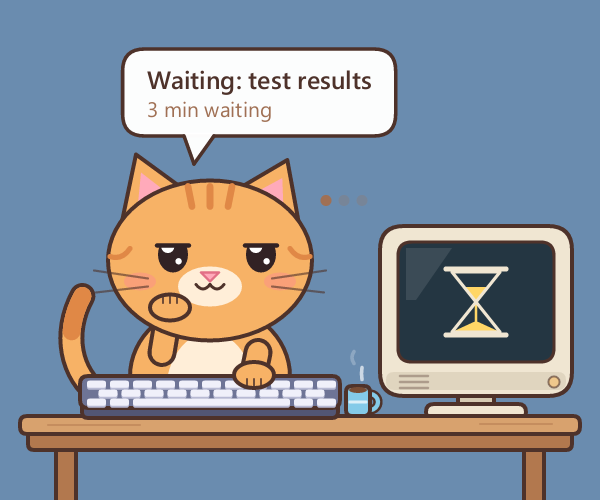
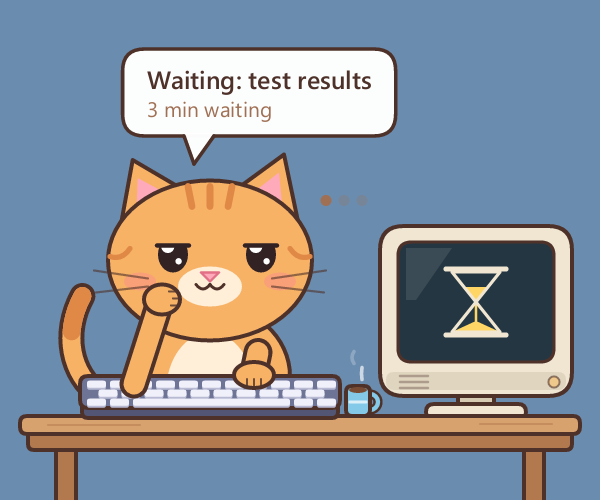
Random typing screens, a proper chin prop while waiting
- Each new busy line picks a typing screen at random (never the same twice in a row):
  scrolling code, progress bars, an equalizer, a spinning gear or a line graph.
- Waiting: the chin rests on an upright forearm (elbow on the keyboard, paw cupping the jaw)
  drawn in front of the head, instead of a paw hidden under the chin.
- snapshot --screen N picks the typing screen (default 0, code, so existing pictures stay).
- README and guide describe the screens and the option; new waiting picture.

Changed region(s): [[0.18, 0.57, 0.33, 0.81], [0.21, 0.3, 0.3, 0.42], [0.42, 0.3, 0.51, 0.42]]

diff --git a/src/scene.rs b/src/scene.rs
@@ -92,6 +92,9 @@ impl Mood {
     }
 }
 
+/// Typing screens: scrolling code, progress bars, equalizer, gear, line graph.
+const SCREENS: usize = 5;
+
 /// Seconds the "all done!" moment lasts after busy turns idle.
 const CHEER_SECS: f64 = 2.5;
 
@@ -125,6 +128,8 @@ pub struct Scene {
     pub busy: bool,
     pub task: String,
     pub mood: Mood,
+    /// which typing screen shows (0..SCREENS), picked at random per status line
+    pub screen: usize,
     /// time (seconds) the current task started
     pub since: f64,
     /// time the last job finished (busy -> idle), for the "all done!" moment
@@ -155,6 +160,7 @@ impl Scene {
             busy: false,
             task: String::new(),
             mood: Mood::Busy,
+            screen: 0,
             since: 0.0,
             done_at: -100.0,
             rng: 0x2545_F491_4F6C_DD1D,
@@ -182,6 +188,9 @@ impl Scene {
         let busy = !s.is_empty() && !s.eq_ignore_ascii_case("idle");
         if busy && (!self.busy || s != self.task) {
             self.since = t - age.max(0.0);
+            // a new screen for the new line, never the same one twice in a row
+            let pick = (self.rand() * (SCREENS - 1) as f64) as usize;
+            self.screen = (self.screen + 1 + pick) % SCREENS;
         }
         // a job that ends without a problem gets a little celebration
         if self.busy && !busy && self.mood != Mood::Problem {
@@ -331,11 +340,16 @@ impl Scene {
         self.arms(&mut c, p);
         self.head(&mut c, p);
         if self.busy && self.mood == Mood::Waiting {
-            // the chin rests on this paw, so it sits in front of the head
-            let py = 181.0 - p.l.lift;
-            c.blob(&oval(p.l.x, py, PAW_W, 13.0), FUR);
-            for tx in [6.5, 10.0, 13.5] {
-                c.stroke(&line(p.l.x + tx, py + 0.8, p.l.x + tx, py + 4.2), INK.fade(0.8), 1.1);
+            // chin propped on an upright forearm: elbow on the keyboard, paw cupping the jaw,
+            // drawn in front of the head
+            let (px, py) = (CX - 33.0, p.hy + 12.0);
+            let arm = line(CX - 38.0, KY + 4.0, px + 8.0, py + 9.0);
+            c.stroke(&arm, INK, 14.5);
+            c.stroke(&arm, FUR, 10.5);
+            c.blob(&oval(px, py, 18.0, 15.0), FUR);
+            // toes curl in towards the face
+            for (dx, dy) in [(12.5, 3.5), (14.5, 7.0), (13.5, 10.5)] {
+                c.stroke(&line(px + dx, py + dy, px + dx + 3.5, py + dy), INK.fade(0.8), 1.1);
             }
         }
         self.sparkles(&mut c, p);
@@ -352,6 +366,60 @@ impl Scene {
             self.zzz(&mut c, tf, p);
         }
         self.bubble(&mut c, t, p);
+    }
+
+    /// The typing screens other than scrolling code (screen 0), picked at random per status line.
+    fn busy_screen(&self, c: &mut Canvas, t: f32) {
+        match self.screen {
+            1 => {
+                // three progress bars filling at their own pace
+                for i in 0..3 {
+                    let y = 133.0 + i as f32 * 15.0;
+                    let k = (t * (0.11 + 0.07 * i as f32) + i as f32 * 0.37).fract();
+                    c.fill(&rrect(207.0, y, 62.0, 7.0, 3.5), WHITE.fade(0.12));
+                    c.fill(&rrect(207.0, y, 6.0 + 56.0 * k, 7.0, 3.5), CODE[i]);
+                }
+            }
+            2 => {
+                // an equalizer
+                for i in 0..8 {
+                    let f = i as f32;
+                    let h = 5.0 + 32.0 * (t * (2.1 + 0.37 * f) + f * 1.7).sin().abs();
+                    c.fill(&rrect(206.0 + f * 8.4, 172.0 - h, 6.0, h, 2.0), CODE[i % 4]);
+                }
+            }
+            3 => {
+                // a spinning gear and loading dots
+                let (x, y, rot) = (238.0, 146.0, t * 1.6);
+                for k in 0..8 {
+                    let a = rot + k as f32 / 8.0 * 2.0 * PI;
+                    c.stroke(&line(x + a.cos() * 9.0, y + a.sin() * 9.0, x + a.cos() * 16.0, y + a.sin() * 16.0), CODE[1], 5.0);
+                }
+                c.fill(&circle(x, y, 11.5), CODE[1]);
+                c.fill(&circle(x, y, 4.5), SCREEN_ON);
+                let step = (t * 3.0) as i64 % 4;
+                for i in 0..3 {
+                    let a = if (i as i64) < step { 1.0 } else { 0.25 };
+                    c.fill(&circle(229.0 + i as f32 * 9.0, 172.0, 2.4), CODE[0].fade(a));
+                }
+            }
+            _ => {
+                // a line graph scrolling past
+                for gy in [136.0, 151.0, 166.0] {
+                    c.stroke(&line(203.0, gy, 273.0, gy), WHITE.fade(0.08), 1.0);
+                }
+                let pts: Vec<(f32, f32)> = (0..=20)
+                    .map(|i| {
+                        let x = 203.0 + i as f32 * 3.5;
+                        let u = i as f32 * 0.45 + t * 1.8;
+                        (x, 152.0 - 9.0 * u.sin() - 5.0 * (u * 2.3 + 1.0).sin())
+                    })
+                    .collect();
+                c.stroke(&polyline(&pts), CODE[2], 2.2);
+                let (lx, ly) = pts[pts.len() - 1];
+                c.fill(&circle(lx, ly, 2.6), CODE[0]);
+            }
+        }
     }
 
     /// Twinkling stars around the head during the "all done!" moment.
@@ -442,6 +510,8 @@ impl Scene {
         } else if mood.is_none() && p.cheer.is_some() {
             // a big green tick
             c.stroke(&polyline(&[(224.0, 151.0), (234.0, 161.0), (254.0, 139.0)]), GREEN, 5.0);
+        } else if self.busy && self.screen != 0 {
+            self.busy_screen(c, t);
         } else if self.busy {
             // code scrolls up as it is typed
             let lh = 8.0;
@@ -555,7 +625,12 @@ impl Scene {
 
     fn arms(&self, c: &mut Canvas, p: &Pose) {
         let rest_y = if self.busy { 181.0 } else { 179.0 };
+        // while waiting the left arm props the chin and is drawn after the head
+        let chin = self.busy && self.mood == Mood::Waiting;
         for (paw, sx) in [(p.l, -24.0), (p.r, 24.0)] {
+            if chin && sx < 0.0 {
+                continue;
+            }
             let py = rest_y - paw.lift;
             let arm = line(CX + sx, p.hy + 46.0, paw.x + PAW_W / 2.0, py + 5.0);
             c.stroke(&arm, INK, 14.5);

diff --git a/src/main.rs b/src/main.rs
@@ -31,7 +31,8 @@ snapshot options:
   --time SECONDS   animation time to render (default 3.2)
   --minutes N      elapsed minutes shown in the bubble
   --bg RRGGBB      background colour (default: transparent)
-  --done           render the all-done moment";
+  --done           render the all-done moment
+  --screen N       typing screen 0-4 (code, progress, equalizer, gear, graph; default 0)";
 
 #[derive(Default)]
 struct Opts {
@@ -47,6 +48,7 @@ struct Opts {
     minutes: Option<f64>,
     bg: Option<String>,
     done: bool,
+    screen: Option<usize>,
 }
 
 fn parse() -> Result<Opts, String> {
@@ -66,6 +68,7 @@ fn parse() -> Result<Opts, String> {
             "--minutes" => o.minutes = Some(val()?.parse().map_err(|_| "bad --minutes")?),
             "--bg" => o.bg = Some(val()?),
             "--done" => o.done = true,
+            "--screen" => o.screen = Some(val()?.parse().map_err(|_| "bad --screen")?),
             "-h" | "--help" | "help" => return Err(USAGE.into()),
             _ if a.starts_with("--") => return Err(format!("unknown option {a}\n\n{USAGE}")),
             _ => positional.push(a),
@@ -158,6 +161,7 @@ fn snapshot(o: &Opts) -> Result<(), String> {
     let mut s = scene::Scene::new();
     s.set_status(o.busy.as_deref().unwrap_or("idle"), 0.0);
     s.since = -o.minutes.unwrap_or(0.0) * 60.0;
+    s.screen = o.screen.unwrap_or(0) % 5;
     if o.done {
         // the "all done!" moment, one second in
         s.set_status("job", 0.0);

diff --git a/docs/USAGE.md b/docs/USAGE.md
@@ -59,7 +59,7 @@ character that is not a letter, so `Waiting:`, `waiting...` and `WAITING for CI`
 
 | Mood | First word | What you see |
 |------|------------|--------------|
-| Busy | anything else | types away, code scrolls on the screen, the mug steams |
+| Busy | anything else | types away, the mug steams; the screen shows scrolling code, progress bars, an equalizer, a spinning gear or a line graph, picked at random each time the line changes (never the same twice in a row) |
 | Waiting | `Waiting`, `Wait` | chin propped on one paw, the other paw drums the desk, bored half-closed eyes that glance at the hourglass on the screen, "..." above its head, slow tail swish; the power light pulses amber |
 | Problem | `Failed`, `Fail`, `Error`, `Problem` | ears droop, a small frown, a blinking red X on a dark red screen, a red power light |
 | All done | (no word: a busy line turns idle) | for 2.5 seconds: paws up, little hops, sparkles, a green tick and "all done!", then the nap |
@@ -125,6 +125,7 @@ kitten-assistant help                 show the command summary (in a message box
 | `--time SECONDS`| snapshot       | which moment of the animation to draw (default 3.2)             |
 | `--bg RRGGBB`   | snapshot       | background colour as hex, for example `6a8caf`; default transparent |
 | `--done`        | snapshot       | draw the all-done moment (use with `--time 3.3`)               |
+| `--screen N`    | snapshot       | typing screen: 0 code (default), 1 progress bars, 2 equalizer, 3 gear, 4 line graph |
 
 Options go after the command: `kitten-assistant say "Backup" --status C:\jobs\status.txt`.
 

diff --git a/README.md b/README.md
@@ -3,8 +3,10 @@
 A tiny desktop buddy for Windows. A kitten sits at a little computer on top of your
 taskbar and shows what your background jobs are doing.
 
-- **Busy:** the kitten types away and looks at its screen. Code scrolls on the screen,
-  the mug steams, and a speech bubble shows the task and how long it has been running.
+- **Busy:** the kitten types away and looks at its screen, the mug steams, and a speech
+  bubble shows the task and how long it has been running. Each new status line gets a
+  screen picked at random: scrolling code, progress bars, an equalizer, a spinning gear or
+  a line graph.
 - **Waiting:** a line that starts with `Waiting` (for example `Waiting: test results`).
   The kitten props its chin on a paw, drums the desk with the other, gives the
   hourglass on its screen a bored look and thinks "...".
@@ -149,6 +151,7 @@ kitten-assistant snapshot nap.png --bg 6a8caf
 ```
 
 `--time SECONDS` picks the animation moment. `--scale N` sets the size (default 2).
+`--screen N` picks the typing screen (0 code, 1 progress bars, 2 equalizer, 3 gear, 4 graph).
 Leave out `--bg` for a transparent PNG.
 
 ## How it works
